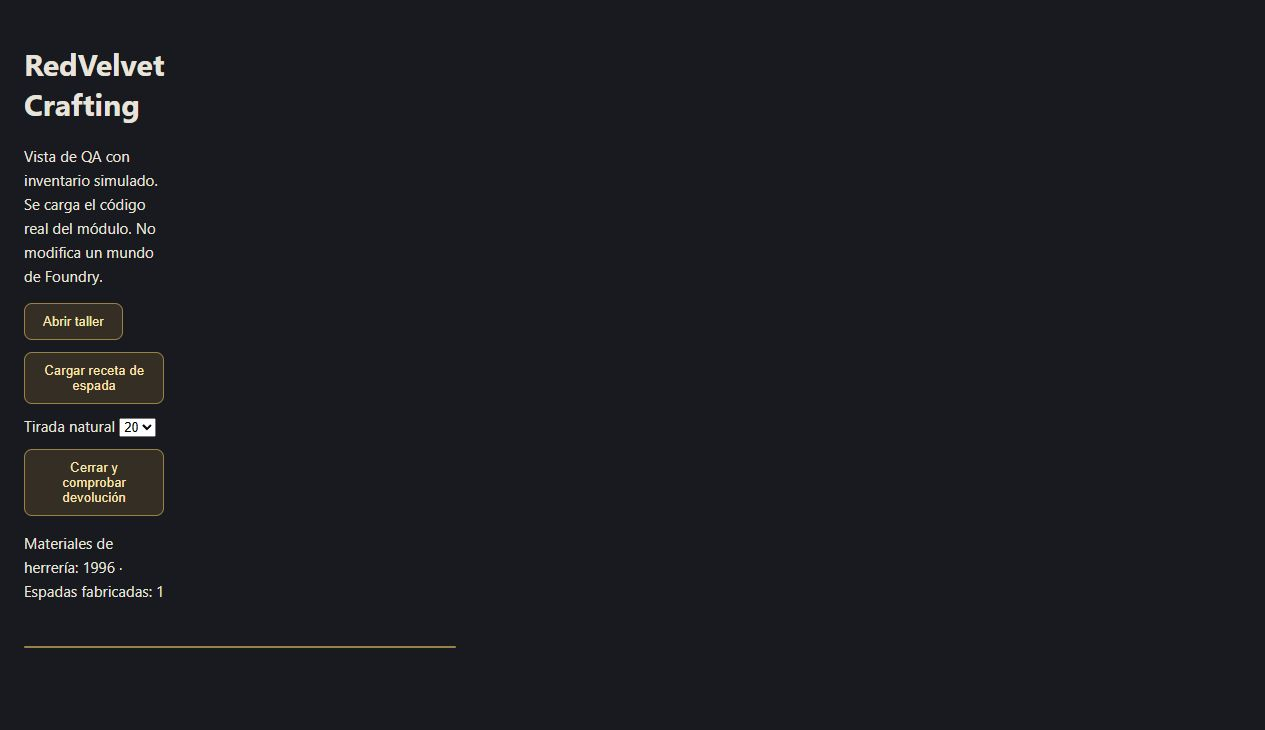
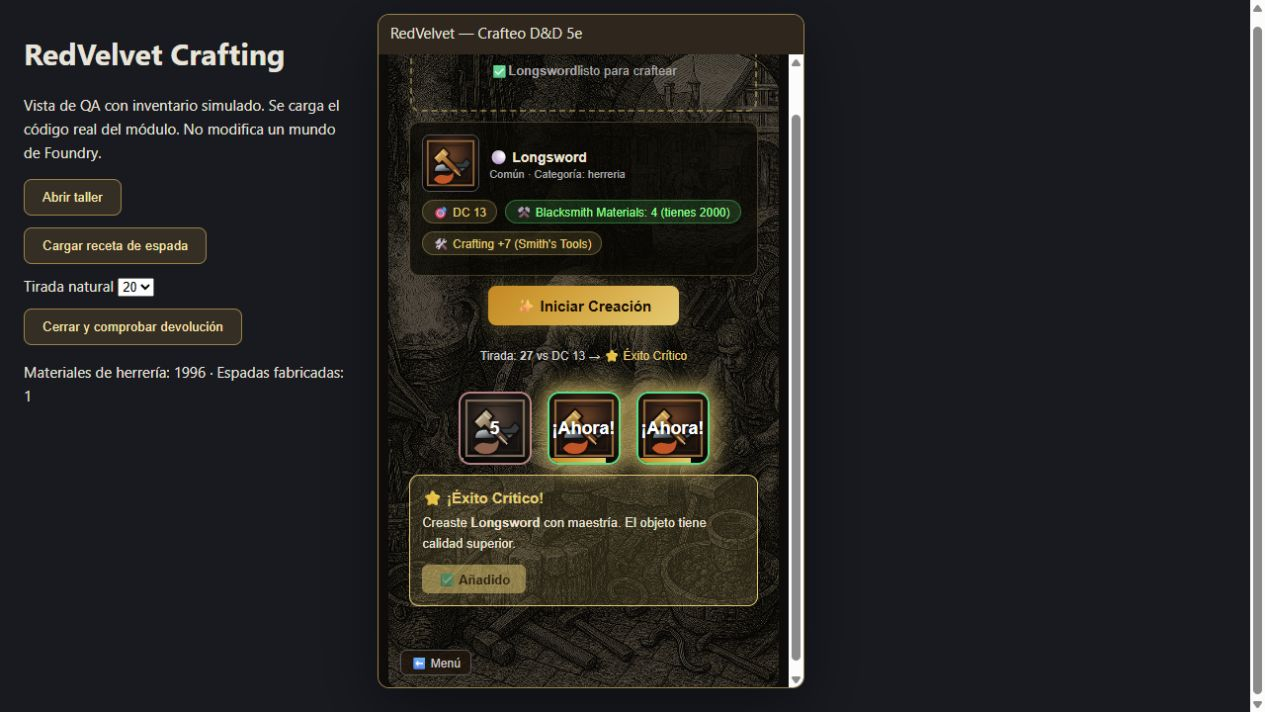
Add release notes and browser verification evidence

Changed region(s): [[0.0, 0.0, 0.6474, 0.9888], [0.9866, 0.0, 1.0, 1.0], [0.0, 0.7416, 0.1233, 0.8343]]

diff --git a/docs/RELEASE-NOTES.md b/docs/RELEASE-NOTES.md
@@ -1,0 +1,15 @@
+RedVelvet Crafting — D&D5e 1.1.0 prepara el taller para Foundry v13/v14 y conserva sus oficios, recolección, construcción, cultivos, despiece y reglas homebrew.
+
+- Arte propio de la edición PF2e reutilizado localmente: 13 fondos y 15 SVG, más una portada nueva.
+- 20 efectos sonoros originales, diferenciados por actividad y con volumen por usuario.
+- Herramientas nativas de D&D5e, iconos con teclado y animaciones con movimiento reducido.
+- Correcciones de pilas duplicadas, doble clic, temporizadores al cerrar, recuperación de inventario y tiradas de respaldo.
+- Soft gate Patreon con Velvet License Hub opcional: crafting funciona durante la prueba gratuita y durante fallos de autenticación.
+
+Pruebas automatizadas: **21 aprobadas**, más revisión en navegador sobre un inventario simulado. GitHub Actions valida el código y genera el paquete.
+
+**Candidato en borrador:** faltan las pruebas en mundos reales de Foundry v13 y v14 y OAuth Patreon real descritas en `docs/RELEASE-QA.md`. No se anuncian esas comprobaciones como realizadas.
+
+Archivos: `redvelvet-crafting-dnd5e.zip`, `module.json` y `SHA256SUMS.txt`. Para comprobar integridad, compara los SHA-256 del archivo de checksums. Al publicar la release, el manifiesto estable de Foundry será `/releases/latest/download/module.json`.
+
+Uso: selecciona un token y escribe `/craft`; o ejecuta `game.modules.get("redvelvet-crafting-dnd5e").api.open()`.
